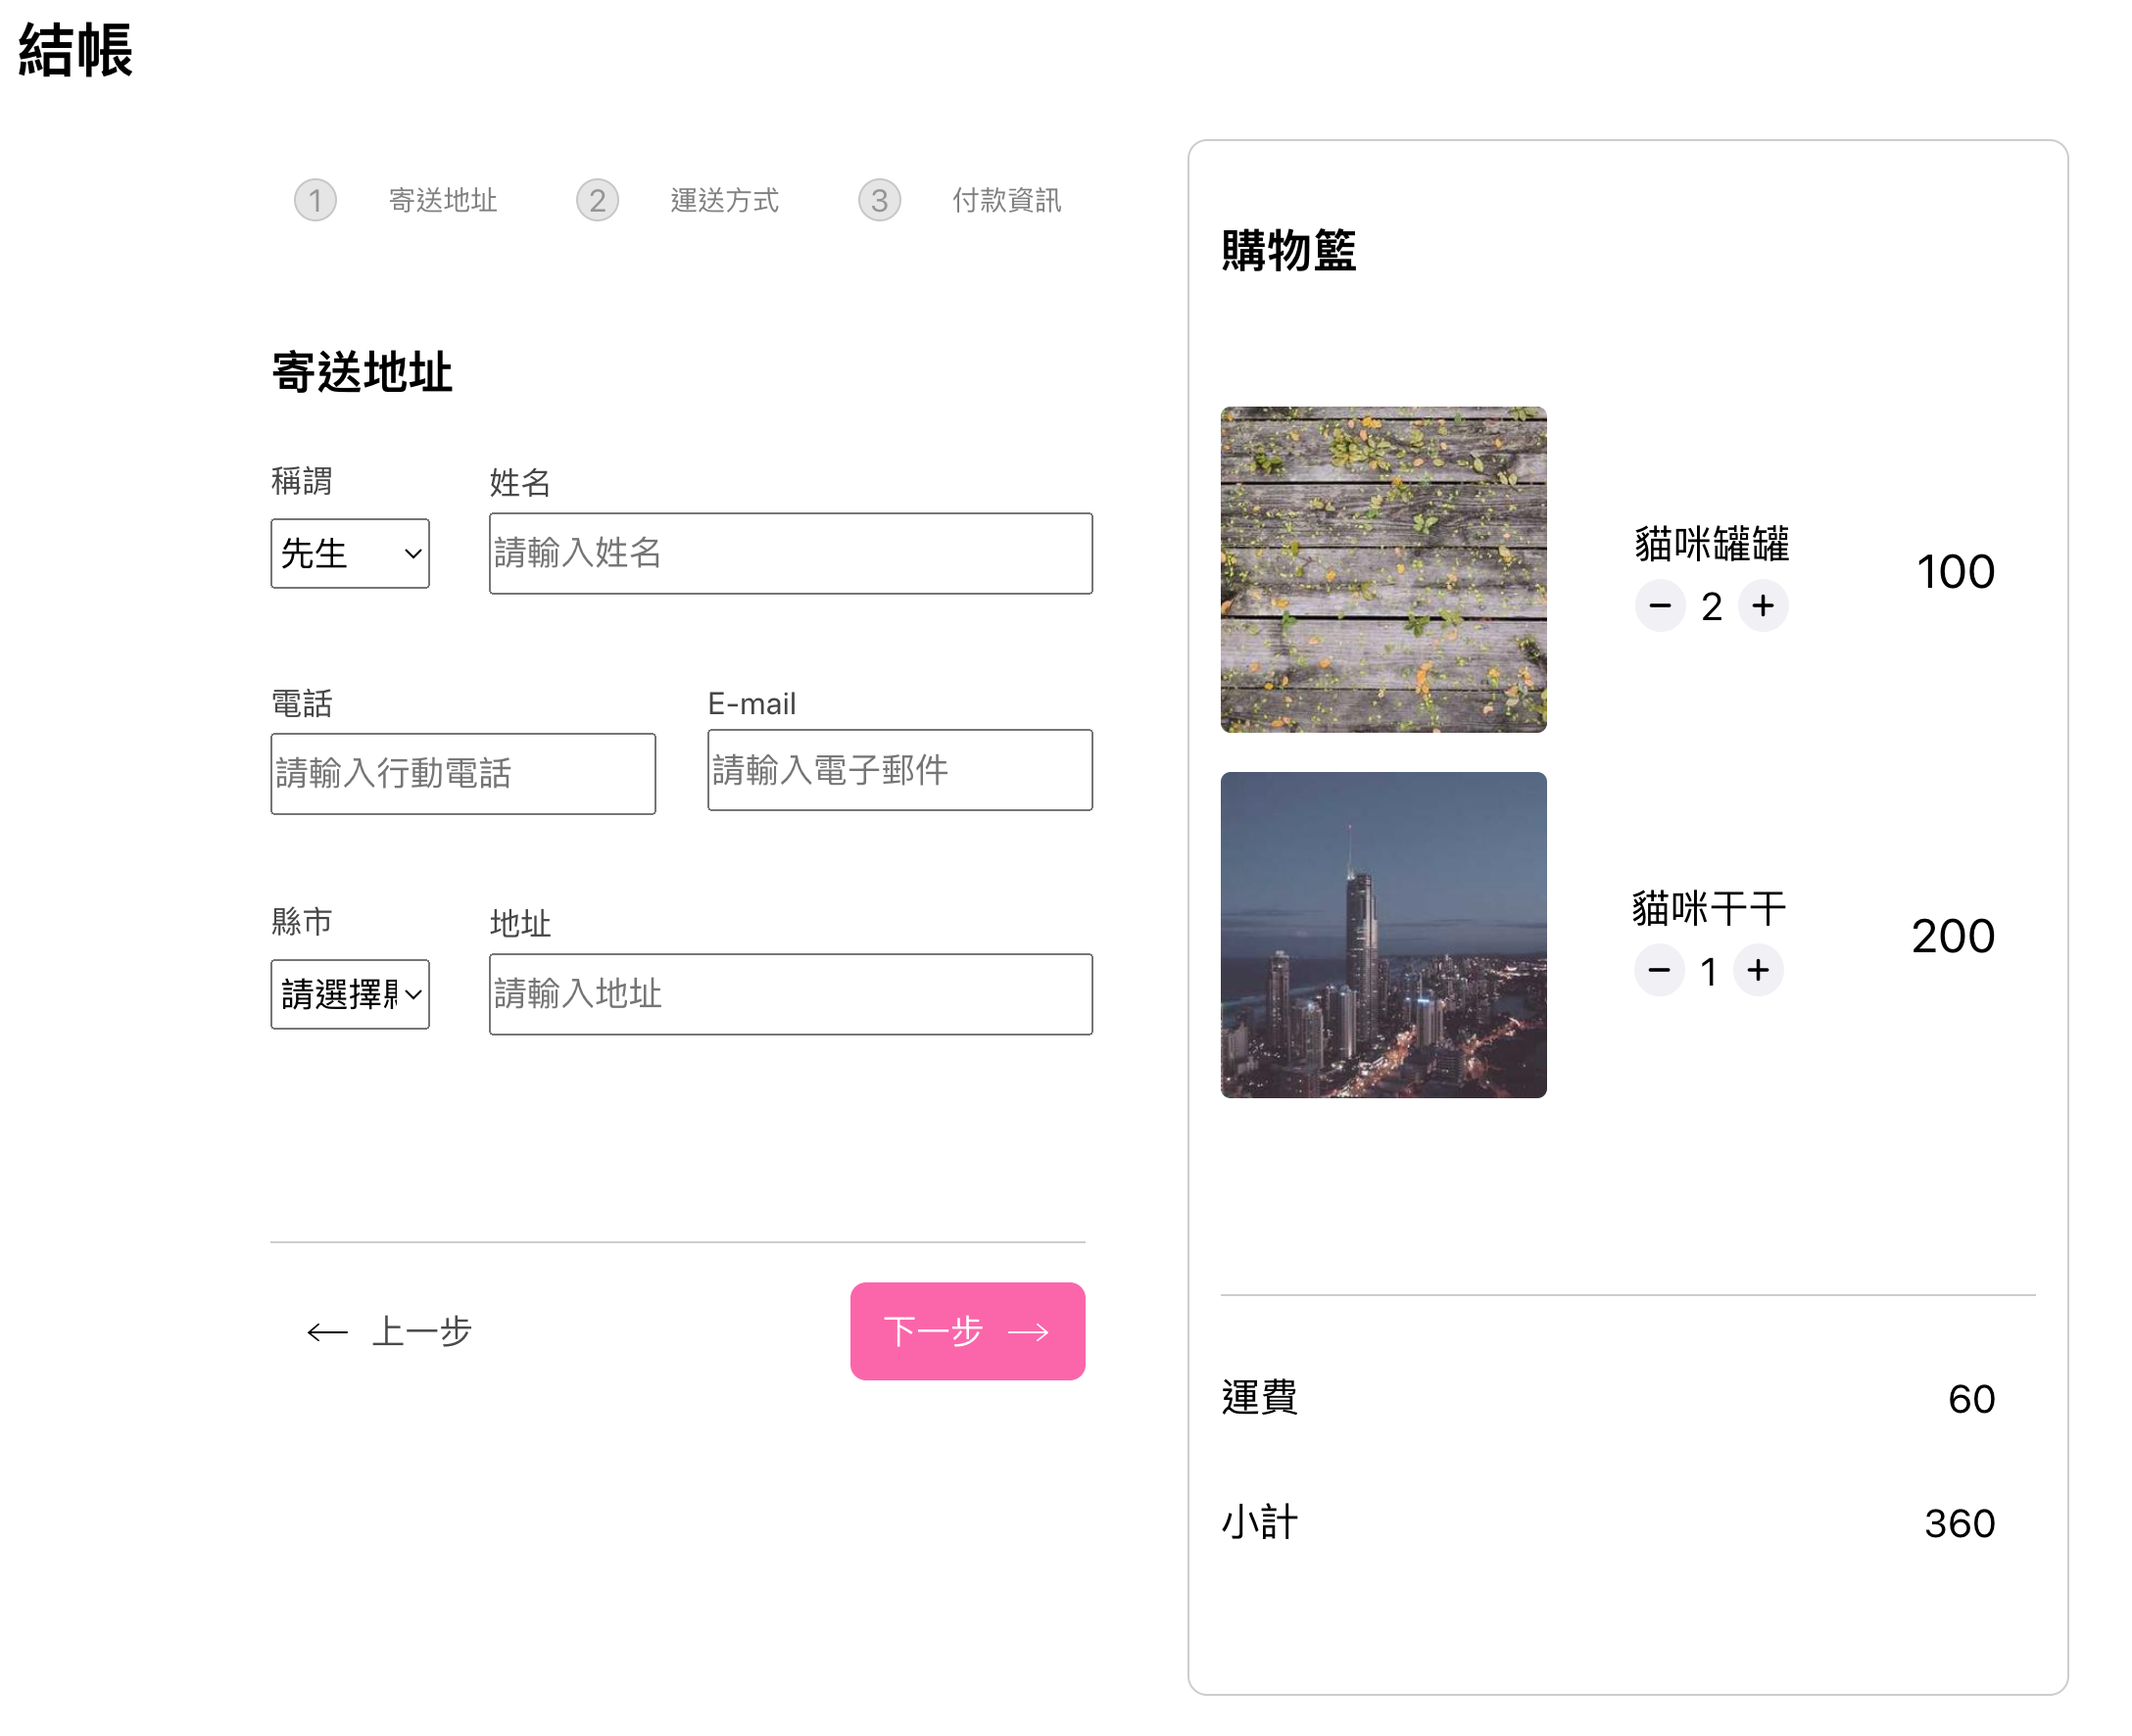
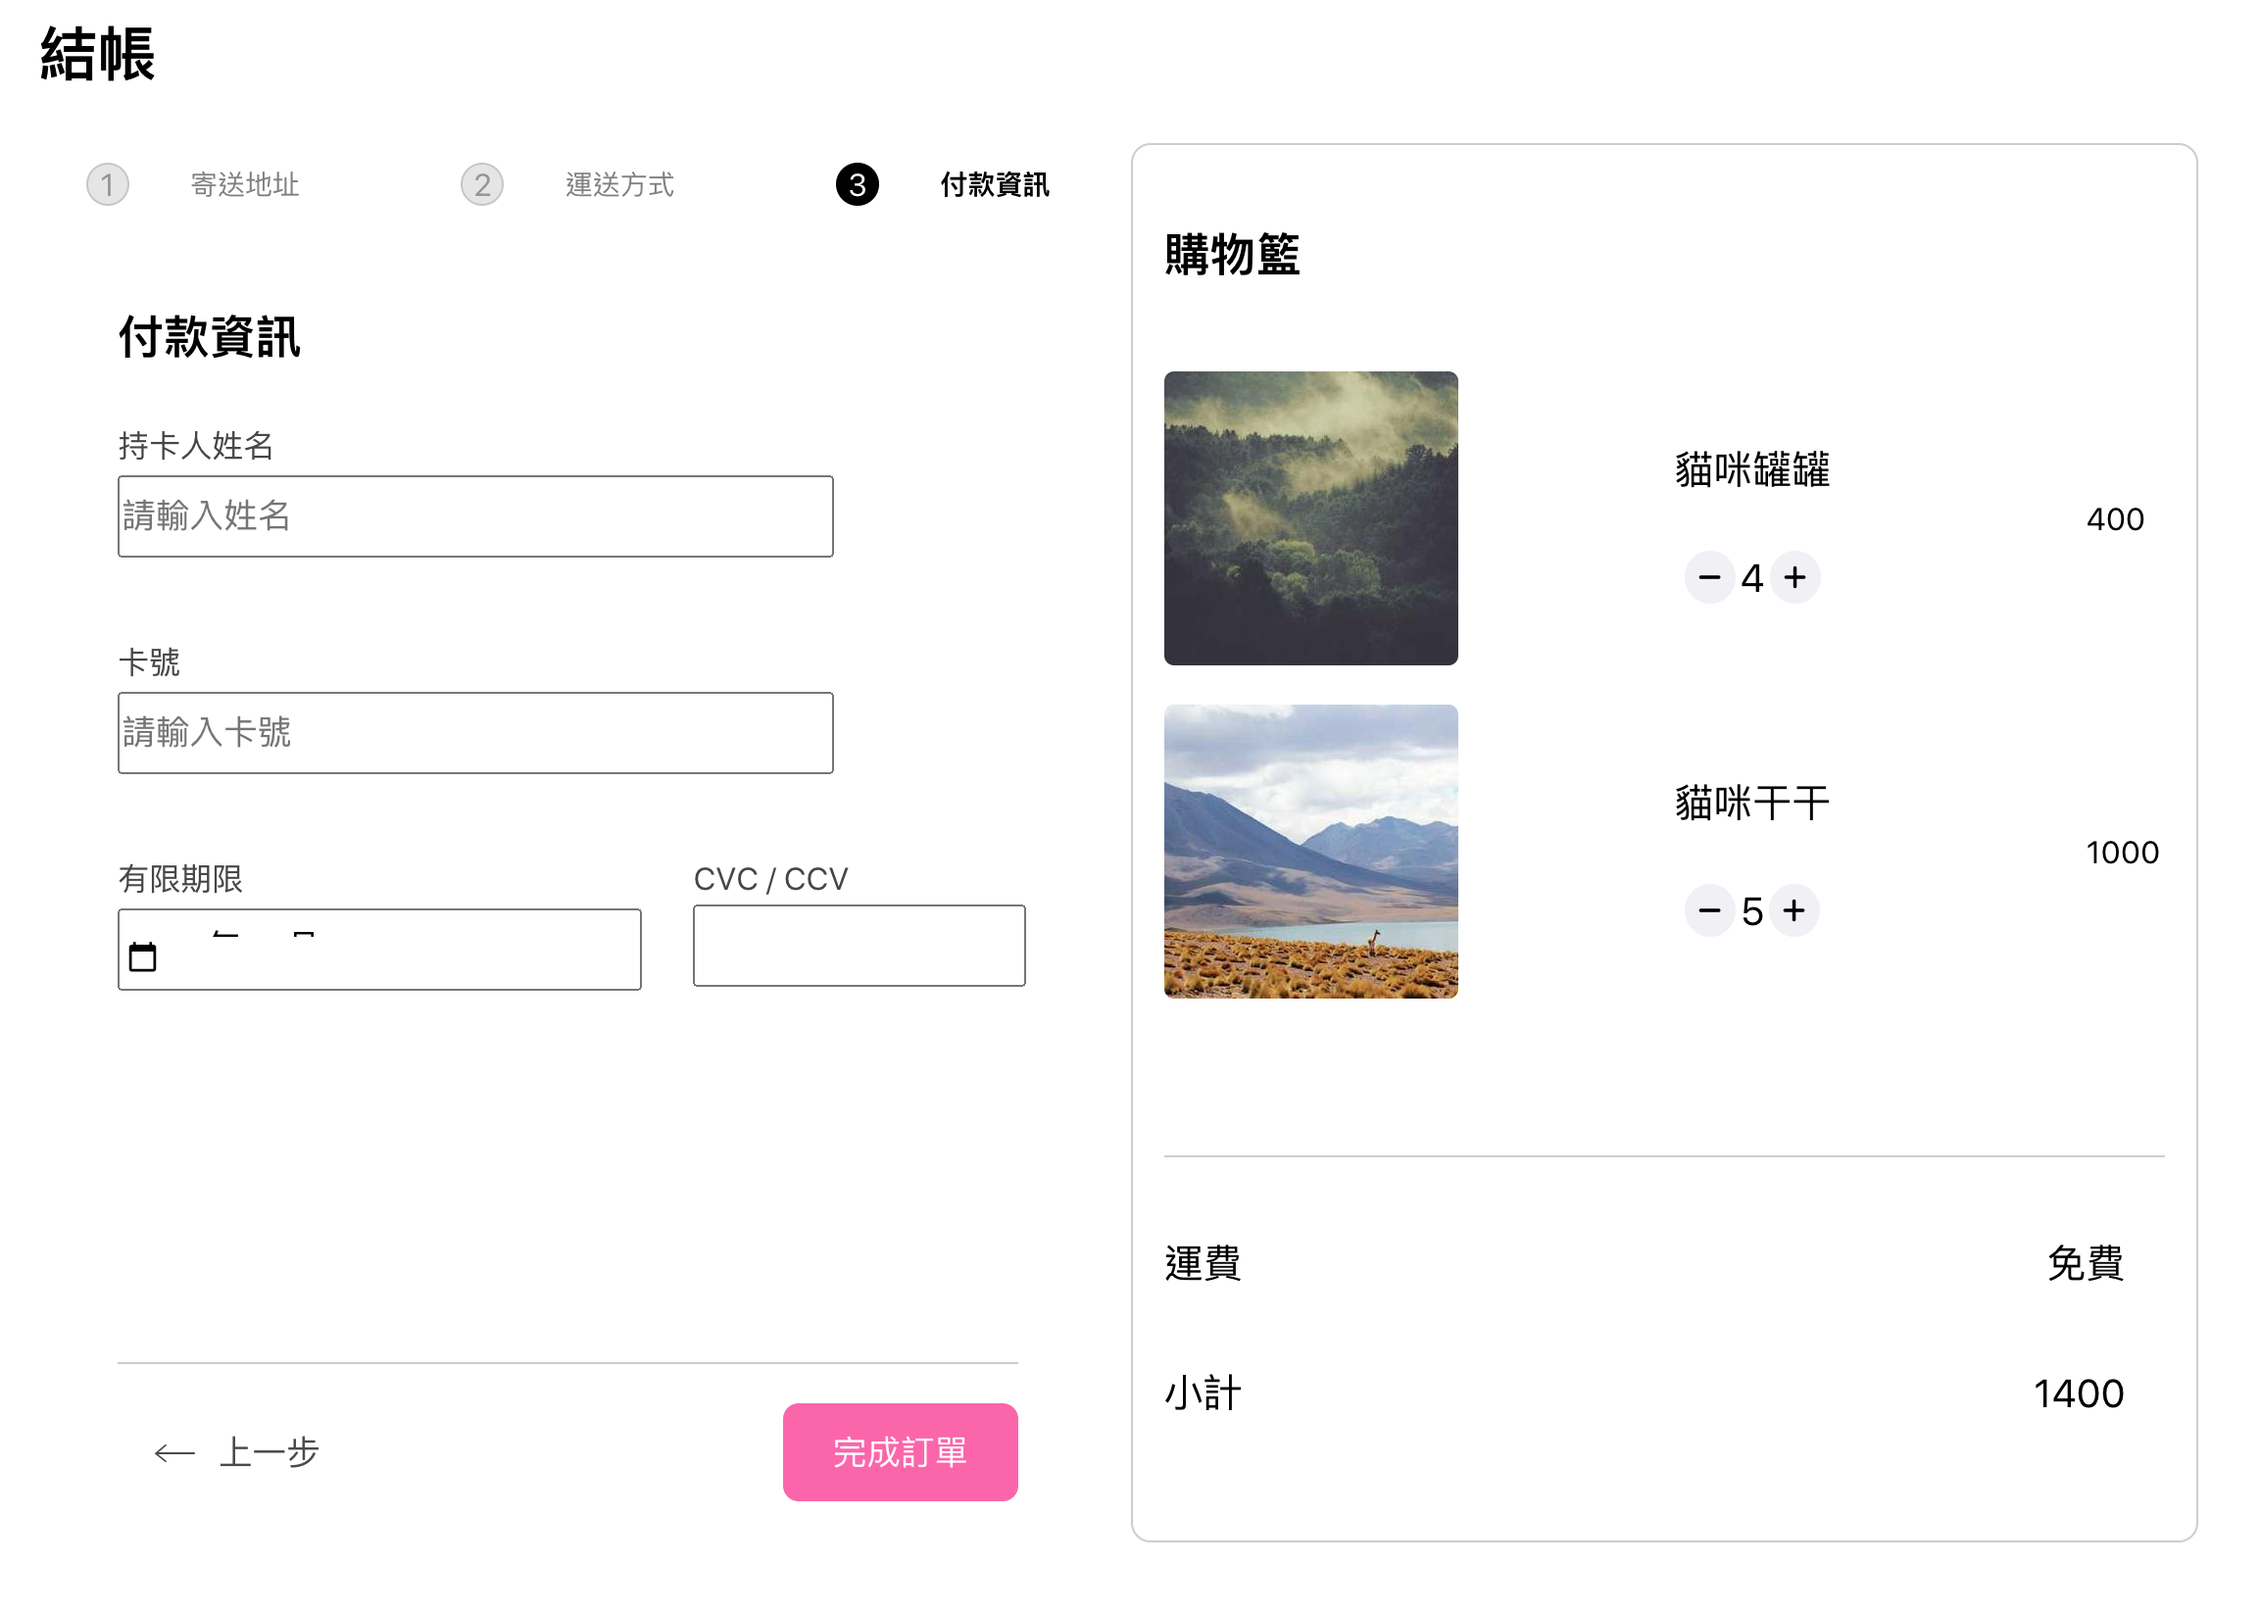
Finish Check component: layout and logic

diff --git a/src/pages/Check/components/Form/components/StepProgress/StepProgress.js b/src/pages/Check/components/Form/components/StepProgress/StepProgress.js
@@ -1,25 +1,25 @@
 import styles from './StepProgress.module.css'
 
-export default function StepProgress() {
+export default function StepProgress({ step }) {
   return (
-    <section className={styles.stepProgressContainer}>
-      <div className={styles.progressStep}>
-        <span className={styles.progressIcon}>
-          <span className={styles.progressText}>1</span>
+    <section className="stepProgressContainer">
+      <div className="progressStep">
+        <span className={step === 1 ? "activeIcon" : "progressIcon"}>
+          <span className={step === 1 ? "activeText" : "progressText"}>1</span>
         </span>
-        <span className={styles.progressLabel}>寄送地址</span>
+        <span className={step === 1 ? "activeLabel" : "progressLabel"}>寄送地址</span>
       </div>
-      <div className={styles.progressStep}>
-        <span className={styles.progressIcon}>
-          <span className={styles.progressText}>2</span>
+      <div className="progressStep">
+        <span className={step === 2 ? "activeIcon" : "progressIcon"}>
+          <span className={step === 2 ? "activeText" : "progressText"}>2</span>
         </span>
-        <span className={styles.progressLabel}>運送方式</span>
+        <span className={step === 2 ? "activeLabel" : "progressLabel"}>運送方式</span>
       </div>
-      <div className={styles.progressStep}>
-        <span className={styles.progressIcon}>
-          <span className={styles.progressText}>3</span>
+      <div className="progressStep">
+        <span className={step === 3 ? "activeIcon" : "progressIcon"}>
+          <span className={step === 3 ? "activeText" : "progressText"}>3</span>
         </span>
-        <span className={styles.progressLabel}>付款資訊</span>
+        <span className={step === 3 ? "activeLabel" : "progressLabel"}>付款資訊</span>
       </div>
     </section>
   )

diff --git a/src/pages/Check/components/Form/components/StepProgress/StepProgress.module.css b/src/pages/Check/components/Form/components/StepProgress/StepProgress.module.css
@@ -1,22 +1,21 @@
-.stepProgressContainer {
+:global(.stepProgressContainer) {
   width: 100%;
   display: flex;
-  justify-content: center;
+  justify-content: space-evenly;
 }
 
-.progressStep {
+:global(.progressStep) {
   display: flex;
-  justify-content: space-between;
-  width: 20%;
+  justify-content: space-evenly;
+  align-items: center;
+  width: 30%;
   margin: 0.5rem;
-  padding: 0.5rem;
 }
 
-.progressIcon {
+:global(.progressIcon) {
   display: flex;
   justify-content: center;
   align-items: center;
-  z-index: -1;
   width: 1rem;
   height: 1rem;
   background-color: rgba(202, 202, 202, 0.5);
@@ -24,15 +23,56 @@
   border-radius: 50%;
 }
 
-.progressText {
+:global(.progressText) {
+  display: flex;
+  justify-content: center;
+  align-items: center;
+  width: 100%;
+  min-width: 20px;
+  height: 100%;
   color: rgb(149, 149, 149);
   font-size: 0.8rem;
+  word-wrap: nowrap;
 }
 
-.progressLabel {
+:global(.progressLabel) {
   display: flex;
   align-items: center;
   color: gray;
   font-size: 0.7rem;
+  white-space: nowrap;
+}
+
+/* active */
+
+:global(.activeIcon) {
+  display: flex;
+  justify-content: center;
+  align-items: center;
+  width: 1rem;
+  height: 1rem;
+  background-color: rgb(0, 0, 0);
+  border: 1px solid rgb(0, 0, 0);
+  border-radius: 50%;
+}
+
+:global(.activeText) {
+  display: flex;
+  justify-content: center;
+  align-items: center;
+  width: 100%;
+  min-width: 20px;
+  height: 100%;
+  color: rgb(255, 255, 255);
+  font-size: 0.8rem;
+  word-wrap: nowrap;
+}
+
+:global(.activeLabel) {
+  display: flex;
+  align-items: center;
+  color: rgb(0, 0, 0);
+  font-size: 0.7rem;
+  font-weight: 800;
   white-space: nowrap;
 }

diff --git a/src/pages/Check/components/Form/components/ProgressControl/ProgressControl.js b/src/pages/Check/components/Form/components/ProgressControl/ProgressControl.js
@@ -1,7 +1,6 @@
-import { ReactComponent as RightArrow } from '../../../../../../icons/right-arrow.svg'
-import { ReactComponent as LeftArrow } from '../../../../../../icons/left-arrow.svg'
 import styles from './ProgressControl.module.css'
-import { useState } from 'react'
+import { ReactComponent as RightArrow } from 'icons/right-arrow.svg'
+import { ReactComponent as LeftArrow } from 'icons/left-arrow.svg'
 
 function Page1({ handleNextClick }) {
   return (

diff --git a/src/pages/Check/components/Cart/Cart.module.css b/src/pages/Check/components/Cart/Cart.module.css
@@ -40,7 +40,7 @@
 .productInfo {
   display: flex;
   flex-direction: column;
-  justify-content: center;
+  justify-content: space-evenly;
   align-items: center;
   width: 40%;
   max-width: 100px;
@@ -49,7 +49,7 @@
 
 .productName {
   margin: 0.2rem 0;
-  font-size: 0.8rem;
+  font-size: 1rem;
 }
 
 .productControl {

diff --git a/src/pages/Check/components/Form/Form.js b/src/pages/Check/components/Form/Form.js
@@ -10,7 +10,7 @@ export default function Form() {
 
   return (
     <section className={styles.formContainer}>
-      <StepProgress />
+      <StepProgress step={step}/>
       <AllSteps step={step} />
       <ProgressControl step={step} setStep={setStep}/>
     </section>

diff --git a/src/pages/Check/components/Form/components/ProgressControl/ProgressControl.module.css b/src/pages/Check/components/Form/components/ProgressControl/ProgressControl.module.css
@@ -49,5 +49,5 @@
 }
 
 .stepButton {
-  fill: black;
+  fill: rgb(74, 74, 74);
 }
